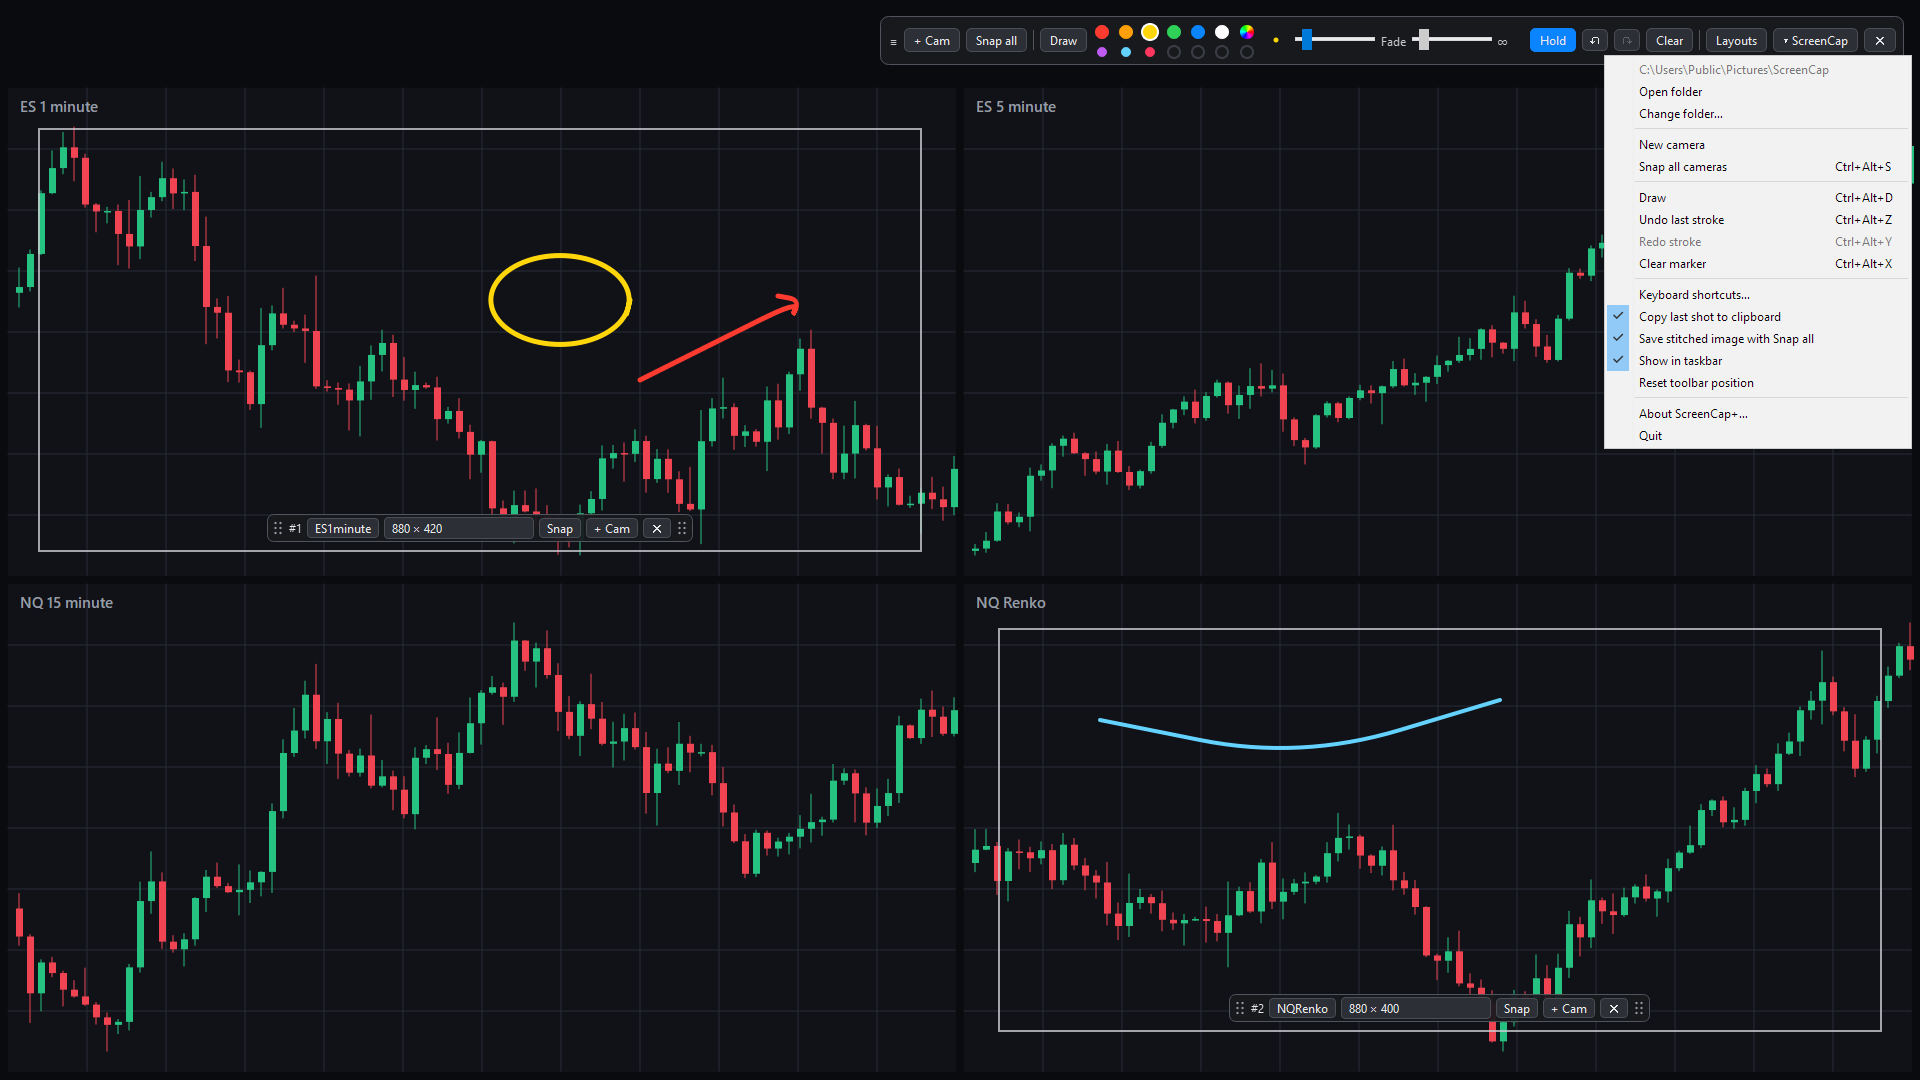
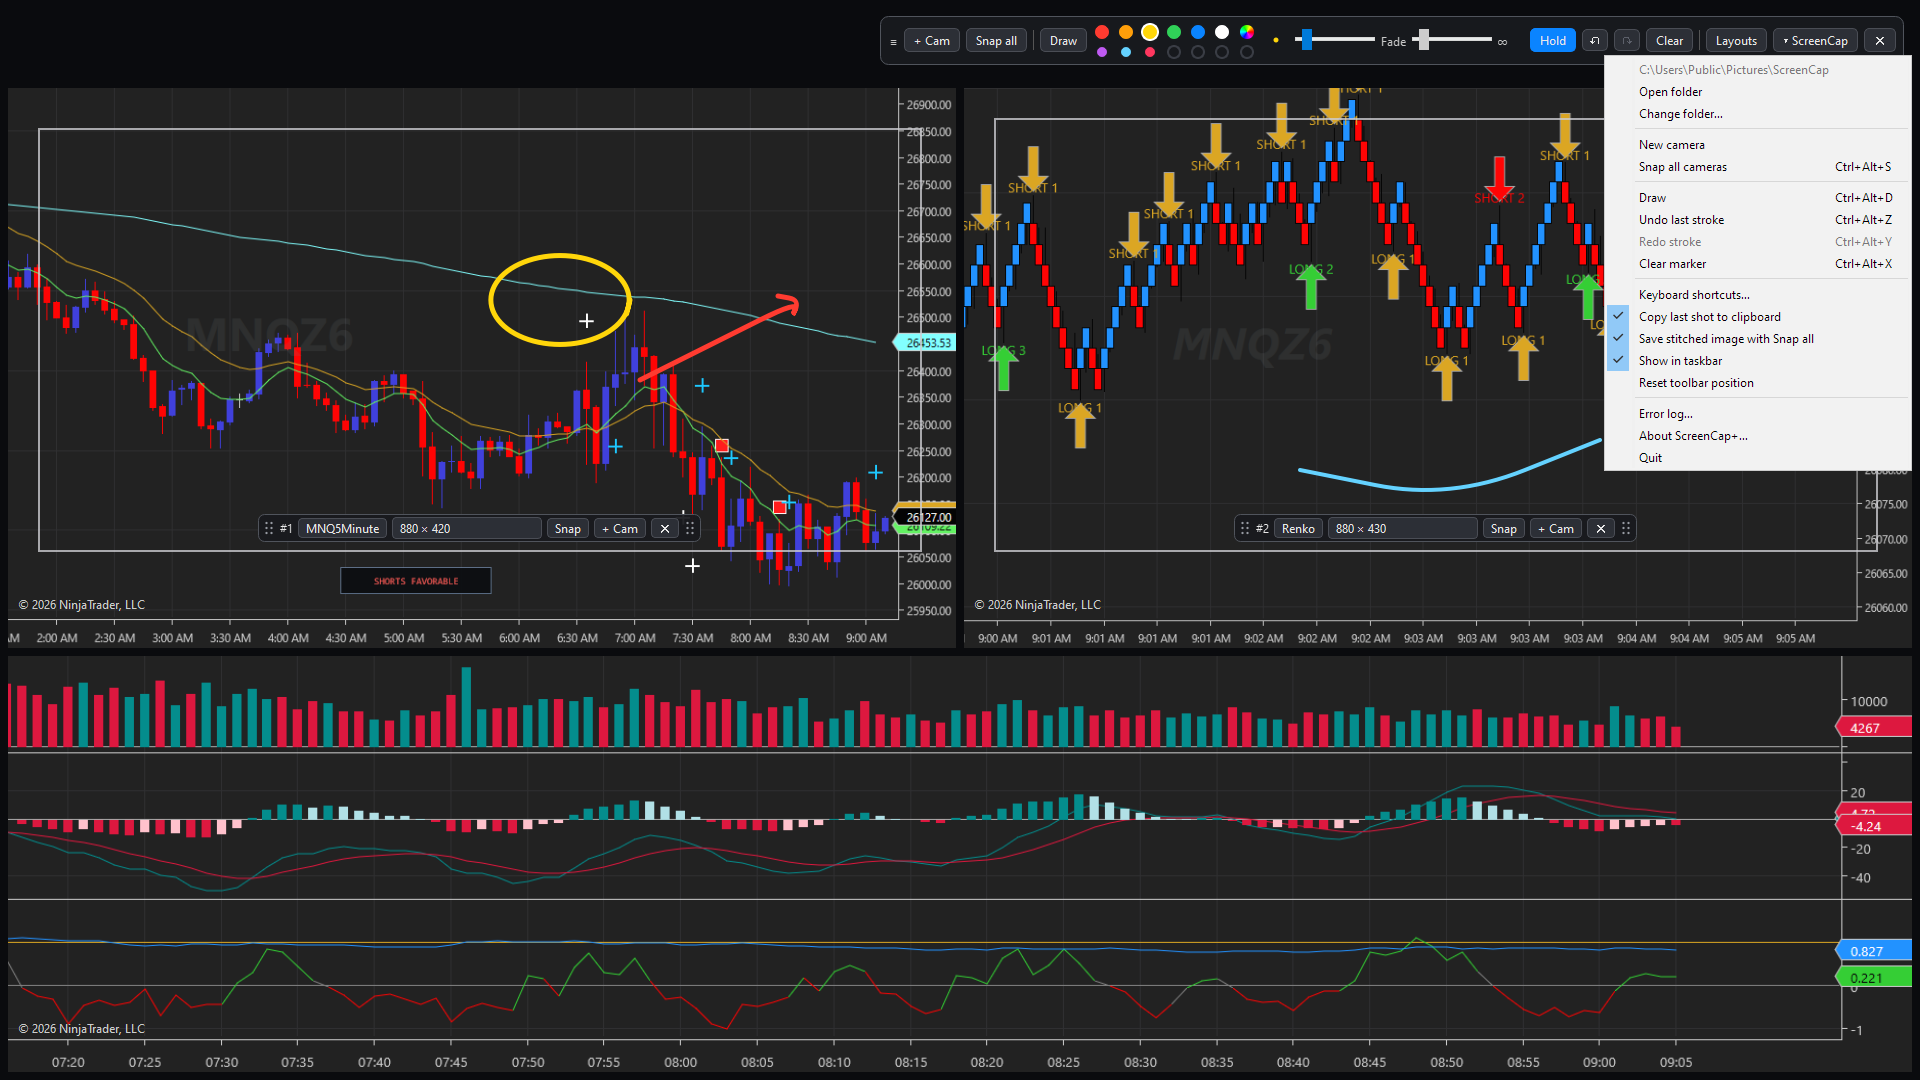
Hero screenshot over real MNQ 5-minute and Renko charts
Replaces the drawn sample charts (the "Renko" pane had time-based candles).
Indicator settings text is removed; NinjaTrader copyright kept on each pane.

diff --git a/index.html b/index.html
@@ -50,7 +50,7 @@
     <p class="get"><a class="store" href="https://apps.microsoft.com/detail/9NF5XD65MQ2S?mode=direct"><img src="https://get.microsoft.com/images/en-us%20dark.svg" width="200" alt="Get ScreenCap+ from the Microsoft Store"></a><span>$0.99 &middot; Windows 10/11</span></p>
   </header>
 
-  <div class="hero"><img src="img/screencap-menu.png" alt="ScreenCap+ toolbar with its menu open, two named camera frames and marker strokes over four charts" width="1920" height="1080"></div>
+  <div class="hero"><img src="img/screencap-menu.png" alt="ScreenCap+ toolbar with its menu open, cameras named MNQ5Minute and Renko over NinjaTrader charts, with marker strokes" width="1920" height="1080"></div>
 
   <section>
     <h2>One small toolbar</h2>
